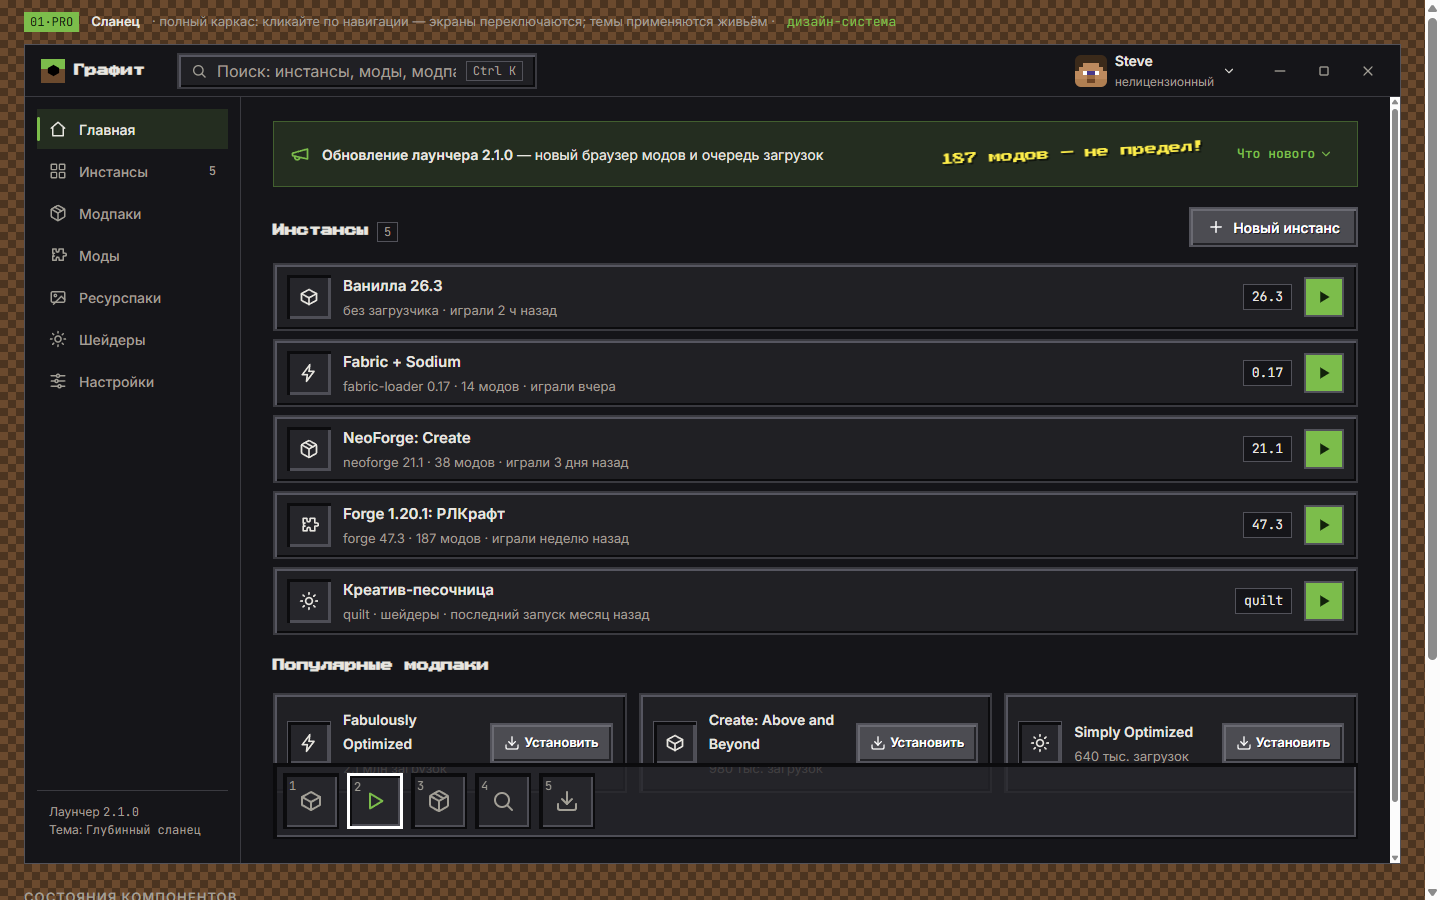
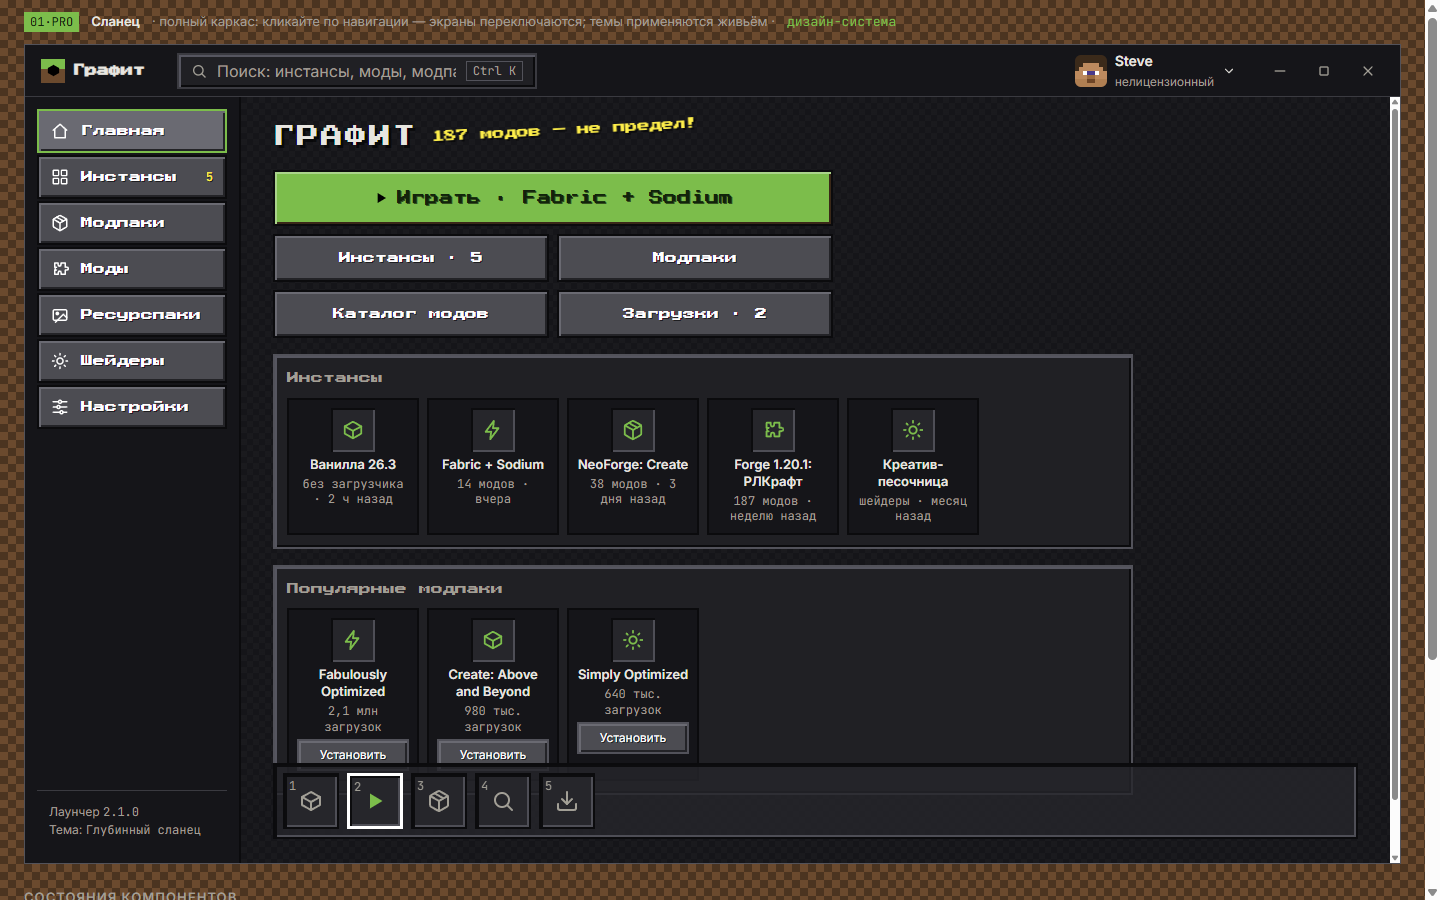
UI: «Глубинный сланец» — главная как главное меню Minecraft: пиксельное лого + сплэш, зелёная ИГРАТЬ, каменные кнопки меню и сайдбара, инвентарь-контейнеры со слотами инстансов/модпаков, хотбар; тема запоминается (localStorage) и открывается по ?theme=mc

diff --git a/ui-explorations/slate-pro.html b/ui-explorations/slate-pro.html
@@ -437,6 +437,76 @@ input[type=range].ram{width:100%; accent-color:var(--accent); height:40px}
 }
 [data-theme="mc"] .banner .more{margin-left:0}
 @keyframes splash{from{transform:rotate(-3deg) scale(1)}to{transform:rotate(-3deg) scale(1.06)}}
+/* главная в теме: меню + инвентарь вместо стандартной раскладки */
+.mc-home{display:none}
+[data-theme="mc"] .mc-home{display:flex; flex-direction:column; gap:var(--s-4)}
+[data-theme="mc"] #scr-home .banner,
+[data-theme="mc"] #scr-home .sec-head,
+[data-theme="mc"] #scr-home .rows,
+[data-theme="mc"] #scr-home .packs{display:none}
+[data-theme="mc"] .mc-title-row{display:flex; align-items:flex-end; gap:var(--s-4)}
+[data-theme="mc"] .mc-logo{
+  font-family:var(--font-display); font-size:22px; color:var(--text); letter-spacing:2px;
+  text-shadow:3px 3px 0 color-mix(in srgb, black 60%, transparent);
+}
+[data-theme="mc"] .mc-title-row .splash{margin:0 0 14px}
+[data-theme="mc"] .mc-menu{display:flex; flex-direction:column; gap:var(--s-2); max-width:560px}
+[data-theme="mc"] .mc-menu-row{display:grid; grid-template-columns:1fr 1fr; gap:var(--s-2)}
+[data-theme="mc"] .mc-btn{
+  height:48px; display:flex; align-items:center; justify-content:center; gap:var(--s-2);
+  background:var(--mc-btn); color:var(--mc-btn-text);
+  border:2px solid var(--mc-lo);
+  box-shadow:inset 2px 2px 0 var(--mc-btn-hi), inset -2px -2px 0 var(--mc-btn-lo);
+  font-family:var(--font-display); font-size:12px; line-height:1.5;
+  text-shadow:1px 1px 0 color-mix(in srgb, black 60%, transparent);
+}
+[data-theme="mc"] .mc-btn:hover{background:var(--mc-btn-hi); border-color:var(--accent)}
+[data-theme="mc"] .mc-btn svg{width:16px;height:16px}
+[data-theme="mc"] .mc-btn-play{
+  height:56px; background:var(--accent); color:var(--on-accent); font-size:14px;
+  box-shadow:inset 2px 2px 0 color-mix(in srgb, var(--accent), white 35%), inset -2px -2px 0 var(--mc-dirt-lo);
+}
+[data-theme="mc"] .mc-btn-play:hover{background:color-mix(in srgb, var(--accent) 88%, white)}
+[data-theme="mc"] .mc-inv{
+  background:var(--surface); border:2px solid var(--border-strong);
+  box-shadow:inset 2px 2px 0 var(--mc-hi), inset -2px -2px 0 var(--mc-lo);
+  padding:var(--s-3); max-width:860px;
+}
+[data-theme="mc"] .mc-inv-head{font-family:var(--font-display); font-size:12px; line-height:1.8; color:var(--text-muted); margin-bottom:var(--s-2)}
+[data-theme="mc"] .mc-slots{display:grid; grid-template-columns:repeat(auto-fill,minmax(128px,1fr)); gap:var(--s-2)}
+[data-theme="mc"] .mc-slot{
+  display:flex; flex-direction:column; align-items:center; gap:var(--s-1); padding:var(--s-2);
+  background:var(--bg); border:2px solid var(--mc-lo); text-align:center;
+}
+[data-theme="mc"] .mc-slot:hover{border-color:var(--accent)}
+[data-theme="mc"] .mc-slot-ic{
+  width:44px; height:44px; display:grid; place-items:center; color:var(--accent);
+  background:var(--mc-slot);
+  box-shadow:inset 2px 2px 0 var(--mc-slot-hi), inset -2px -2px 0 var(--mc-slot-lo);
+}
+[data-theme="mc"] .mc-slot-ic svg{width:22px;height:22px;fill:none;stroke:currentColor;stroke-width:2;stroke-linecap:round;stroke-linejoin:round}
+[data-theme="mc"] .mc-slot-name{font-size:13px; font-weight:600; line-height:1.3}
+[data-theme="mc"] .mc-slot-sub{font-family:var(--font-mono); font-size:12px; color:var(--text-muted); line-height:1.3}
+[data-theme="mc"] .mc-slot .install{height:32px; width:100%; justify-content:center; padding:0; font-size:12px}
+/* сайдбар — стопка каменных кнопок */
+[data-theme="mc"] .side{background:transparent; border-right:2px solid var(--mc-lo)}
+[data-theme="mc"] .nav-item{
+  justify-content:flex-start; height:44px;
+  background:var(--mc-btn); color:var(--mc-btn-text);
+  border:2px solid var(--mc-lo); border-radius:0;
+  box-shadow:inset 2px 2px 0 var(--mc-btn-hi), inset -2px -2px 0 var(--mc-btn-lo);
+  font-family:var(--font-display); font-size:12px; line-height:1.4;
+  text-shadow:1px 1px 0 color-mix(in srgb, black 60%, transparent);
+}
+[data-theme="mc"] .nav-item:hover{background:var(--mc-btn-hi); color:var(--mc-btn-text)}
+[data-theme="mc"] .nav-item.is-active{background:var(--mc-btn-hi); border-color:var(--accent); color:var(--mc-btn-text)}
+[data-theme="mc"] .nav-item.is-active::before{display:none}
+[data-theme="mc"] .nav-item .count{color:var(--mc-splash); font-size:12px}
+/* контент: шахматный камень */
+[data-theme="mc"] .content{
+  background-image:repeating-conic-gradient(color-mix(in srgb, var(--surface) 40%, transparent) 0 25%, transparent 0 50%);
+  background-size:12px 12px;
+}
 /* хотбар быстрого запуска */
 .hotbar{display:none}
 [data-theme="mc"] .hotbar{
@@ -457,7 +527,8 @@ input[type=range].ram{width:100%; accent-color:var(--accent); height:40px}
   position:absolute; top:2px; left:4px;
   font-family:var(--font-mono); font-size:12px; color:var(--text-muted);
 }
-[data-theme="mc"] .hslot svg{width:24px;height:24px}
+[data-theme="mc"] .hslot svg{width:24px;height:24px;fill:none;stroke:currentColor;stroke-width:2;stroke-linecap:round;stroke-linejoin:round}
+[data-theme="mc"] .hslot.is-selected svg{fill:currentColor;stroke:none}
 [data-theme="mc"] .hslot.is-selected svg{color:var(--accent)}
 [data-theme="mc"] .row,
 [data-theme="mc"] .mod,
@@ -624,10 +695,44 @@ input[type=range].ram{width:100%; accent-color:var(--accent); height:40px}
 
         <!-- ГЛАВНАЯ -->
         <section class="screen on" id="scr-home" aria-label="Главная">
+          <div class="mc-home">
+            <div class="mc-title-row">
+              <span class="mc-logo">ГРАФИТ</span>
+              <span class="splash" aria-hidden="true">187 модов — не предел!</span>
+            </div>
+            <div class="mc-menu">
+              <button class="mc-btn mc-btn-play" data-nav="instance"><svg aria-hidden="true"><use href="#i-play"/></svg>Играть · Fabric + Sodium</button>
+              <div class="mc-menu-row">
+                <button class="mc-btn" data-nav="instances">Инстансы · 5</button>
+                <button class="mc-btn" data-nav="modpacks">Модпаки</button>
+              </div>
+              <div class="mc-menu-row">
+                <button class="mc-btn" data-nav="mods">Каталог модов</button>
+                <button class="mc-btn" data-nav="downloads">Загрузки · 2</button>
+              </div>
+            </div>
+            <div class="mc-inv">
+              <div class="mc-inv-head">Инстансы</div>
+              <div class="mc-slots">
+                <button class="mc-slot" data-nav="instance"><span class="mc-slot-ic"><svg aria-hidden="true"><use href="#i-cube"/></svg></span><span class="mc-slot-name">Ванилла 26.3</span><span class="mc-slot-sub">без загрузчика · 2 ч назад</span></button>
+                <button class="mc-slot" data-nav="instance"><span class="mc-slot-ic"><svg aria-hidden="true"><use href="#i-zap"/></svg></span><span class="mc-slot-name">Fabric + Sodium</span><span class="mc-slot-sub">14 модов · вчера</span></button>
+                <button class="mc-slot" data-nav="instance"><span class="mc-slot-ic"><svg aria-hidden="true"><use href="#i-package"/></svg></span><span class="mc-slot-name">NeoForge: Create</span><span class="mc-slot-sub">38 модов · 3 дня назад</span></button>
+                <button class="mc-slot" data-nav="instance"><span class="mc-slot-ic"><svg aria-hidden="true"><use href="#i-puzzle"/></svg></span><span class="mc-slot-name">Forge 1.20.1: РЛКрафт</span><span class="mc-slot-sub">187 модов · неделю назад</span></button>
+                <button class="mc-slot" data-nav="instance"><span class="mc-slot-ic"><svg aria-hidden="true"><use href="#i-shader"/></svg></span><span class="mc-slot-name">Креатив-песочница</span><span class="mc-slot-sub">шейдеры · месяц назад</span></button>
+              </div>
+            </div>
+            <div class="mc-inv">
+              <div class="mc-inv-head">Популярные модпаки</div>
+              <div class="mc-slots">
+                <div class="mc-slot"><span class="mc-slot-ic"><svg aria-hidden="true"><use href="#i-zap"/></svg></span><span class="mc-slot-name">Fabulously Optimized</span><span class="mc-slot-sub">2,1 млн загрузок</span><button class="install">Установить</button></div>
+                <div class="mc-slot"><span class="mc-slot-ic"><svg aria-hidden="true"><use href="#i-cube"/></svg></span><span class="mc-slot-name">Create: Above and Beyond</span><span class="mc-slot-sub">980 тыс. загрузок</span><button class="install">Установить</button></div>
+                <div class="mc-slot"><span class="mc-slot-ic"><svg aria-hidden="true"><use href="#i-shader"/></svg></span><span class="mc-slot-name">Simply Optimized</span><span class="mc-slot-sub">640 тыс. загрузок</span><button class="install">Установить</button></div>
+              </div>
+            </div>
+          </div>
           <div class="banner">
             <svg class="icon" aria-hidden="true"><use href="#i-megaphone"/></svg>
             <span class="txt"><b>Обновление лаунчера 2.1.0</b> — новый браузер модов и очередь загрузок</span>
-            <span class="splash" aria-hidden="true">187 модов — не предел!</span>
             <a class="more" href="#" data-nav="downloads">Что нового<svg class="icon" style="width:14px;height:14px" aria-hidden="true"><use href="#i-chevdown"/></svg></a>
           </div>
           <div class="sec-head">
@@ -1162,6 +1267,19 @@ input[type=range].ram{width:100%; accent-color:var(--accent); height:40px}
 <script>
   // ── навигация по экранам ─────────────────────────────────────────
   var root = document.documentElement;
+  var themeNames = { '': 'Тёмная', 'light': 'Светлая', 'cb-dark': 'Дальтоник · Тёмная', 'cb-light': 'Дальтоник · Светлая', 'mc': 'Глубинный сланец' };
+  function applyTheme(t){
+    if (t) { root.setAttribute('data-theme', t); } else { root.removeAttribute('data-theme'); }
+    document.querySelectorAll('[data-set-theme]').forEach(function(b){
+      var on = b === document.querySelector('[data-set-theme="' + t + '"]');
+      b.classList.toggle('is-selected', on);
+      b.setAttribute('aria-pressed', on ? 'true' : 'false');
+      var mk = b.querySelector('.tmark');
+      if (mk) { mk.innerHTML = on ? '<span class="chk"><svg aria-hidden="true"><use href="#i-check"/></svg></span>' : ''; }
+    });
+    var lbl = document.getElementById('theme-label');
+    if (lbl) { lbl.textContent = themeNames[t] || 'Тёмная'; }
+  }
   var screens = document.querySelectorAll('.screen');
   var mainNav = document.querySelectorAll('#main-nav .nav-item');
   var setNav = document.querySelectorAll('#settings-nav .nav-item');
@@ -1225,16 +1343,8 @@ input[type=range].ram{width:100%; accent-color:var(--accent); height:40px}
     var th = e.target.closest('[data-set-theme]');
     if (th){
       var t = th.getAttribute('data-set-theme');
-      if (t) { root.setAttribute('data-theme', t); } else { root.removeAttribute('data-theme'); }
-      document.querySelectorAll('[data-set-theme]').forEach(function(b){
-        var on = b === th;
-        b.classList.toggle('is-selected', on);
-        b.setAttribute('aria-pressed', on ? 'true' : 'false');
-        var mk = b.querySelector('.tmark');
-        if (mk) { mk.innerHTML = on ? '<span class="chk"><svg aria-hidden="true"><use href="#i-check"/></svg></span>' : ''; }
-      });
-      var names = { '': 'Тёмная', 'light': 'Светлая', 'cb-dark': 'Дальтоник · Тёмная', 'cb-light': 'Дальтоник · Светлая', 'mc': 'Глубинный сланец' };
-      document.getElementById('theme-label').textContent = names[t] || 'Тёмная';
+      applyTheme(t);
+      try { localStorage.setItem('graphite-theme', t); } catch (err) {}
       return;
     }
     var ram = e.target;
@@ -1245,6 +1355,15 @@ input[type=range].ram{width:100%; accent-color:var(--accent); height:40px}
   document.getElementById('f-ram').addEventListener('input', function(){
     document.getElementById('ram-val').textContent = this.value + ' ГБ';
   });
+  // тема из ?theme= или сохранённая в localStorage
+  (function(){
+    var param = '';
+    try { param = new URLSearchParams(location.search).get('theme') || ''; } catch (err) {}
+    var saved = '';
+    try { saved = localStorage.getItem('graphite-theme') || ''; } catch (err) {}
+    var initial = param || saved;
+    if (initial && themeNames.hasOwnProperty(initial)) { applyTheme(initial); }
+  })();
 </script>
 </body>
 </html>

diff --git a/ui-explorations/index.html b/ui-explorations/index.html
@@ -61,9 +61,9 @@ footer{margin-top:36px; color:var(--text-muted); font-size:14px; border-top:1px 
     <article class="card">
       <div class="head"><span class="num">01·PRO</span><h2>Сланец — развитие</h2><span class="prod">продукт «Графит Pro»</span></div>
       <a class="shot" href="slate-pro.html"><img src="shots/slate-pro-home.png" alt="Сланец Pro — главная"></a>
-      <p class="idea">Полный интерактивный каркас: клик по навигации переключает экраны (Главная, Инстансы, инстанс с табами и логами, Модпаки, каталог Модов, Настройки со всеми разделами — Темы, Java и память, Загрузки с очередью, Профили, Логи, Расширенные). Темы применяются живьём: тёмная, светлая и две сине-оранжевые версии для дальтоников.</p>
+      <p class="idea">Полный интерактивный каркас: клик по навигации переключает экраны (Главная, Инстансы, инстанс с табами и логами, Модпаки, каталог Модов, Настройки со всеми разделами — Темы, Java и память, Загрузки с очередью, Профили, Логи, Расширенные). Пять тем применяются живьём и запоминаются: тёмная, светлая, две сине-оранжевые для дальтоников и «Глубинный сланец» — главный экран превращается в меню Minecraft: пиксельное лого со сплэшем, каменные кнопки, инвентарь инстансов, хотбар.</p>
       <p class="disks">variance 2 · motion 2 · density 8 · 5 тем + 11 экранов, контраст проверен по каждой теме</p>
-      <div class="links"><a href="slate-pro.html">макет</a><a href="shots/slate-pro-mods.png">моды</a><a href="shots/slate-pro-downloads.png">загрузки</a><a href="shots/slate-pro-mc-home.png">тема «Глубинный сланец»</a><a href="shots/slate-pro-themes-light.png">темы · светлая</a><a href="design-systems/slate/MASTER.md">дизайн-система</a></div>
+      <div class="links"><a href="slate-pro.html">макет</a><a href="slate-pro.html?theme=mc">тема Minecraft</a><a href="shots/slate-pro-mc-home.png">скрин</a><a href="shots/slate-pro-mods.png">моды</a><a href="shots/slate-pro-downloads.png">загрузки</a><a href="shots/slate-pro-mc-home.png">тема «Глубинный сланец»</a><a href="shots/slate-pro-themes-light.png">темы · светлая</a><a href="design-systems/slate/MASTER.md">дизайн-система</a></div>
     </article>
 
     <article class="card">
